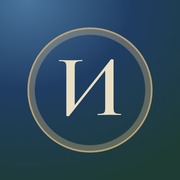
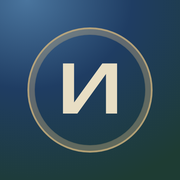
Более технологичный шрифт: Unbounded для заголовков и цифр
Заголовки, приветствие, суммы в плитках, бюджет и иконка теперь набраны
геометрическим Unbounded вместо антиквы Cormorant Garamond. Основной текст
остаётся на Manrope. Обновлён кэш service worker, чтобы шрифт подтянулся
на уже установленных устройствах.

Claude-Session: https://claude.ai/code/session_013t3K6ouivRYebpSn4WgWT6

Changed region(s): [[0.3333, 0.3056, 0.6667, 0.6667]]

diff --git a/css/styles.css b/css/styles.css
@@ -27,7 +27,7 @@
   --hero: radial-gradient(130% 95% at 10% 0%, #4A759E 0%, #1F3D63 42%, #1E3C33 100%);
   --tabbar: rgba(252, 250, 244, .88);
   --radius: 18px;
-  --serif: 'Cormorant Garamond', 'Baskerville', 'Times New Roman', serif;
+  --display: 'Unbounded', 'Manrope', -apple-system, BlinkMacSystemFont, sans-serif;
   --sans: 'Manrope', -apple-system, BlinkMacSystemFont, 'Segoe UI', sans-serif;
   color-scheme: light;
 }
@@ -66,7 +66,7 @@ a { color: inherit; text-decoration: none; }
 button { font: inherit; color: inherit; background: none; border: 0; padding: 0; cursor: pointer; }
 [hidden] { display: none !important; }
 .app { max-width: 640px; margin: 0 auto; padding: 0 16px calc(96px + env(safe-area-inset-bottom)); }
-.display { font-family: var(--serif); font-weight: 600; letter-spacing: .005em; }
+.display { font-family: var(--display); font-weight: 500; letter-spacing: -.02em; }
 .muted { color: var(--muted); }
 .small { font-size: 14px; }
 .center { text-align: center; margin: 12px 0; }
@@ -77,7 +77,7 @@ button { font: inherit; color: inherit; background: none; border: 0; padding: 0;
 /* ===== Заголовки страниц ===== */
 .page-head { padding: calc(env(safe-area-inset-top) + 10px) 2px 8px; }
 .page-head-row { display: flex; justify-content: space-between; align-items: center; min-height: 36px; gap: 8px; }
-.page-head h1 { font-size: clamp(38px, 10.5vw, 48px); line-height: 1.1; color: var(--blue); margin-top: 4px; overflow-wrap: anywhere; }
+.page-head h1 { font-size: clamp(28px, 8vw, 36px); line-height: 1.1; color: var(--blue); margin-top: 4px; overflow-wrap: anywhere; }
 .page-head h1::after { content: ''; display: block; width: 44px; height: 2px; background: var(--brass); margin-top: 8px; border-radius: 2px; }
 .page-sub { color: var(--muted); font-size: 14px; margin-top: 2px; }
 .back { color: var(--blue); font-weight: 600; padding: 6px 0; }
@@ -85,17 +85,17 @@ button { font: inherit; color: inherit; background: none; border: 0; padding: 0;
 /* ===== Главный экран ===== */
 .hero { margin: 0 -16px; padding: calc(env(safe-area-inset-top) + 14px) 20px 22px; background: var(--hero); color: #F3F0E6; border-radius: 0 0 30px 30px; position: relative; overflow: hidden; }
 .hero::after { content: ''; position: absolute; right: -60px; top: -60px; width: 220px; height: 220px; border-radius: 50%; background: radial-gradient(circle, rgba(217, 201, 163, .16), transparent 70%); pointer-events: none; }
-.crest { width: 54px; height: 54px; margin: 18px 0 0; border-radius: 50%; display: grid; place-items: center; font-family: var(--serif); font-size: 30px; font-weight: 600; color: var(--cream); border: 1.5px solid rgba(232, 222, 196, .55); box-shadow: inset 0 0 0 4px rgba(255, 255, 255, .04), inset 0 0 0 5px rgba(232, 222, 196, .25); }
+.crest { width: 54px; height: 54px; margin: 18px 0 0; border-radius: 50%; display: grid; place-items: center; font-family: var(--display); font-size: 22px; font-weight: 500; color: var(--cream); border: 1.5px solid rgba(232, 222, 196, .55); box-shadow: inset 0 0 0 4px rgba(255, 255, 255, .04), inset 0 0 0 5px rgba(232, 222, 196, .25); }
 .hero-top { display: flex; justify-content: space-between; align-items: center; }
 .pill-light { background: rgba(255, 255, 255, .14); border: 1px solid rgba(255, 255, 255, .18); padding: 6px 12px; border-radius: 999px; font-size: 14px; font-weight: 600; backdrop-filter: blur(6px); }
-.hero h1 { font-size: clamp(36px, 10vw, 50px); line-height: 1.08; font-style: italic; font-weight: 500; color: var(--cream); margin: 12px 0 6px; text-shadow: 0 2px 18px rgba(0, 0, 0, .25); }
+.hero h1 { font-size: clamp(27px, 7.6vw, 36px); line-height: 1.15; font-weight: 400; color: var(--cream); margin: 12px 0 6px; text-shadow: 0 2px 18px rgba(0, 0, 0, .25); }
 .hero-date { opacity: .85; font-weight: 500; letter-spacing: .02em; }
 .next-card { display: block; margin-top: 18px; padding: 14px 16px; border-radius: 18px; background: rgba(255, 255, 255, .12); border: 1px solid rgba(255, 255, 255, .16); backdrop-filter: blur(10px); }
 .next-label { font-size: 12px; text-transform: uppercase; letter-spacing: .1em; color: var(--cream); font-weight: 700; }
 .next-title { font-size: 19px; font-weight: 700; margin-top: 4px; }
 .next-sub { font-size: 14px; opacity: .8; margin-top: 2px; }
 .mini-hero { margin: 0 0 12px; border-radius: var(--radius); padding: 22px 20px; text-align: center; }
-.big-num { font-family: var(--serif); font-weight: 600; font-size: 80px; line-height: 1; color: var(--cream); }
+.big-num { font-family: var(--display); font-weight: 500; font-size: 64px; letter-spacing: -.03em; line-height: 1; color: var(--cream); }
 
 .quick { display: grid; grid-template-columns: repeat(4, 1fr); gap: 10px; margin: 16px 0 12px; }
 .quick.two { grid-template-columns: 1fr 1fr; margin-top: 4px; }
@@ -115,7 +115,7 @@ button { font: inherit; color: inherit; background: none; border: 0; padding: 0;
 .tiles { display: grid; grid-template-columns: 1fr 1fr; gap: 10px; margin-bottom: 12px; }
 .tile { background: var(--card); border: 1px solid var(--line); border-radius: 18px; padding: 14px; box-shadow: var(--shadow); min-width: 0; }
 .tile-label { font-size: 13px; color: var(--muted); font-weight: 600; }
-.tile-value { font-size: 22px; font-weight: 800; color: var(--blue); margin-top: 4px; letter-spacing: -.01em; overflow-wrap: anywhere; }
+.tile-value { font-family: var(--display); font-size: 19px; font-weight: 500; color: var(--blue); margin-top: 6px; letter-spacing: -.02em; font-variant-numeric: tabular-nums; overflow-wrap: anywhere; }
 .tile-sub { font-size: 12.5px; color: var(--muted); margin-top: 2px; }
 .tile-sub a { color: var(--blue); font-weight: 700; }
 .tile.ok .tile-value { color: var(--ok); }
@@ -239,8 +239,8 @@ button { font: inherit; color: inherit; background: none; border: 0; padding: 0;
 .progress.over > div { background: var(--danger); }
 .bar-sub { font-size: 12.5px; color: var(--muted); margin-top: 3px; }
 .budget-row { padding: 8px 0; }
-.budget-line { display: flex; align-items: baseline; gap: 8px; font-size: 26px; color: var(--blue); }
-.budget-line span { font-size: 15px; color: var(--muted); }
+.budget-line { display: flex; align-items: baseline; gap: 8px; font-family: var(--display); font-weight: 500; letter-spacing: -.02em; font-size: 24px; color: var(--blue); }
+.budget-line span { font-family: var(--sans); letter-spacing: 0; font-size: 15px; color: var(--muted); }
 .day-group + .day-group { margin-top: 10px; }
 .day-head { display: flex; justify-content: space-between; align-items: center; font-size: 13px; text-transform: uppercase; letter-spacing: .05em; color: var(--muted); font-weight: 700; padding: 8px 0 2px; }
 .status-wrap { border-top: 1px solid var(--line); padding-bottom: 10px; }
@@ -325,7 +325,7 @@ button { font: inherit; color: inherit; background: none; border: 0; padding: 0;
 .sheet-wrap.open .sheet-backdrop { opacity: 1; }
 .sheet-grip { width: 40px; height: 5px; border-radius: 9px; background: var(--line); margin: 0 auto 8px; }
 .sheet-head { display: flex; justify-content: space-between; align-items: center; margin-bottom: 12px; position: sticky; top: -8px; background: var(--bg); padding: 6px 0; z-index: 1; }
-.sheet-head h2 { font-family: var(--serif); font-weight: 600; font-size: 30px; color: var(--blue); line-height: 1.1; }
+.sheet-head h2 { font-family: var(--display); font-weight: 500; font-size: 22px; letter-spacing: -.02em; color: var(--blue); line-height: 1.1; }
 .form-grid { display: grid; grid-template-columns: 1fr 1fr; gap: 12px 10px; }
 .field { grid-column: span 2; display: flex; flex-direction: column; gap: 5px; min-width: 0; }
 .field.half { grid-column: span 1; }

diff --git a/index.html b/index.html
@@ -15,7 +15,7 @@
 <link rel="manifest" href="manifest.webmanifest">
 <link rel="preconnect" href="https://fonts.googleapis.com">
 <link rel="preconnect" href="https://fonts.gstatic.com" crossorigin>
-<link href="https://fonts.googleapis.com/css2?family=Cormorant+Garamond:ital,wght@0,500;0,600;1,500;1,600&family=Manrope:wght@400;500;600;700;800&display=swap" rel="stylesheet">
+<link href="https://fonts.googleapis.com/css2?family=Unbounded:wght@400;500;600&family=Manrope:wght@400;500;600;700;800&display=swap" rel="stylesheet">
 <link rel="stylesheet" href="css/styles.css">
 </head>
 <body>

diff --git a/sw.js b/sw.js
@@ -1,5 +1,5 @@
 // Офлайн-режим: сначала сеть (чтобы обновления приходили сразу), без сети — из кэша
-const CACHE = 'ilya-planner-v1';
+const CACHE = 'ilya-planner-v2';
 const SHELL = [
   './', 'index.html', 'css/styles.css', 'manifest.webmanifest', 'icons/icon-180.png', 'icons/icon-192.png', 'icons/icon-512.png',
   'js/app.js', 'js/utils.js', 'js/const.js', 'js/store.js', 'js/ui.js', 'js/agenda.js', 'js/components.js', 'js/forms.js', 'js/demo.js', 'js/theme.js',
